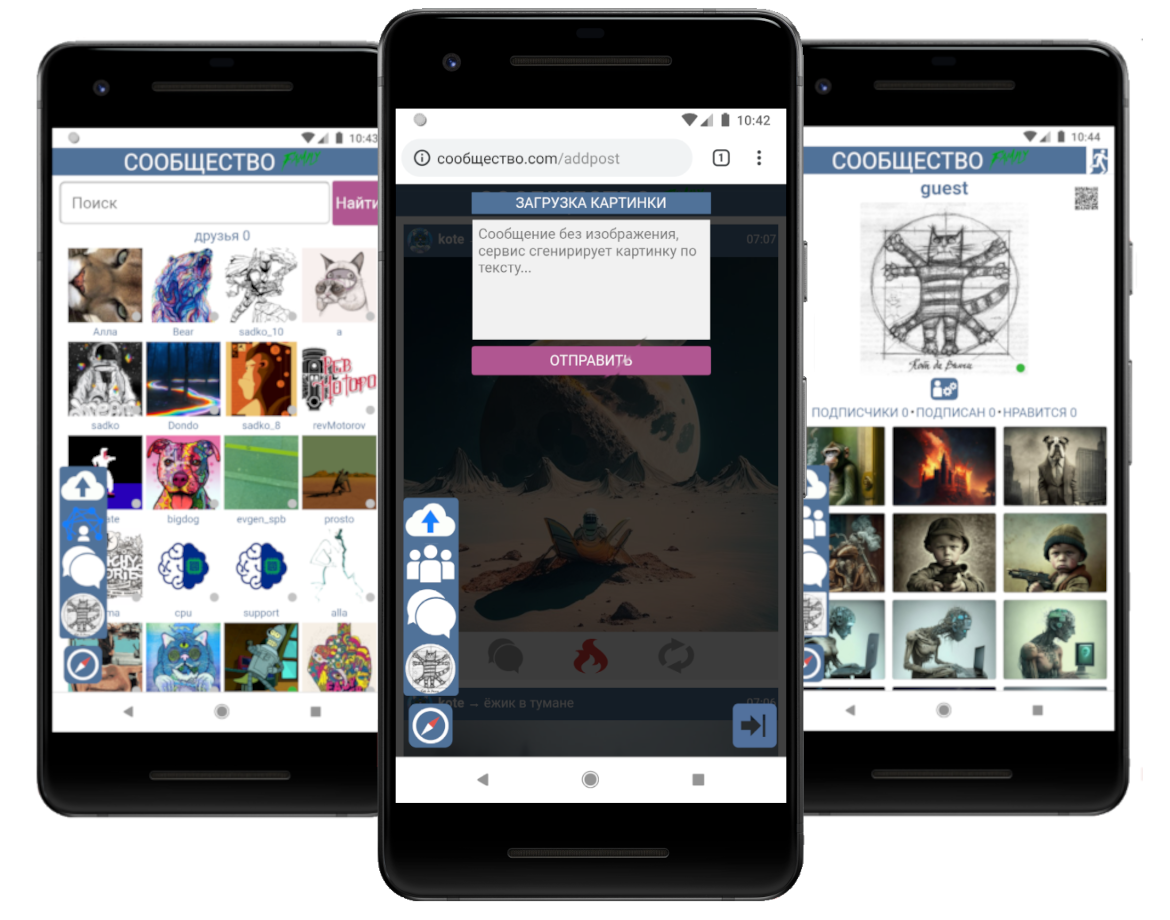
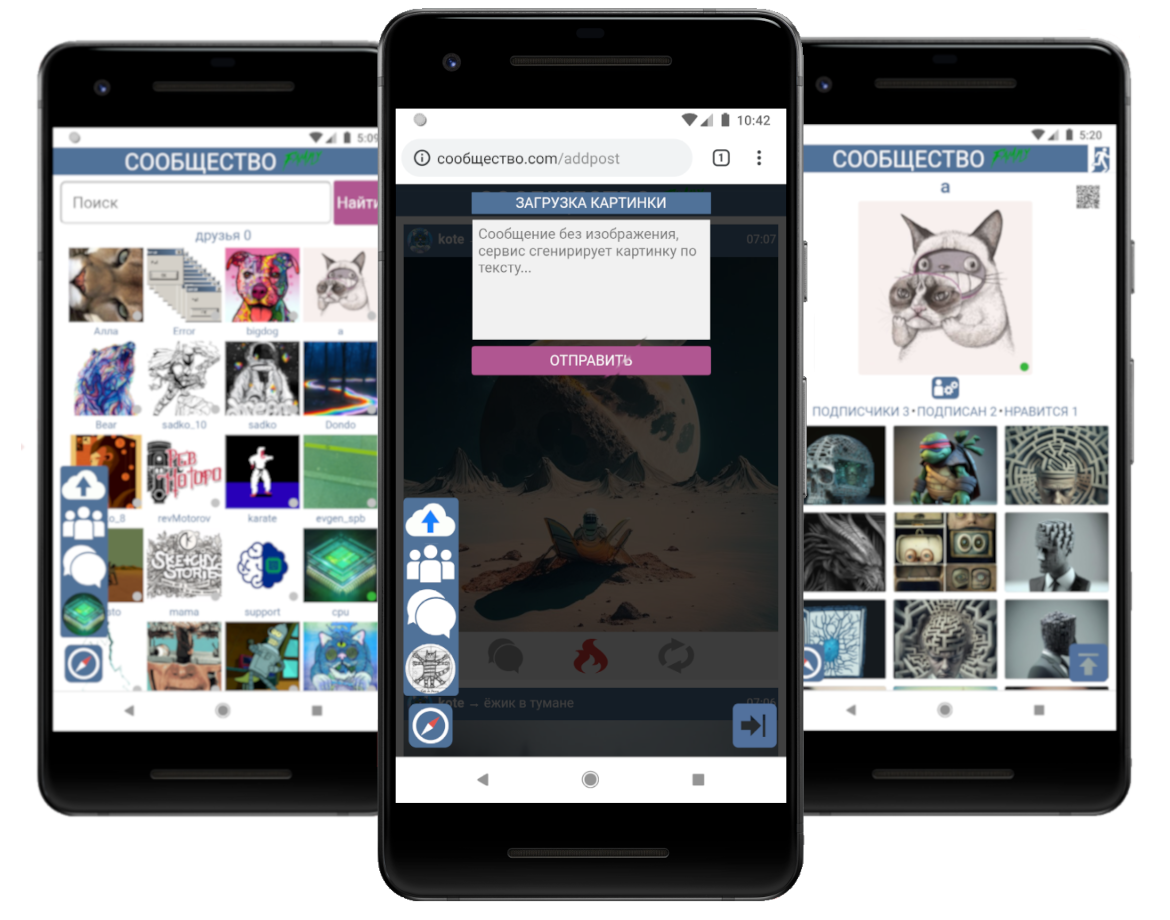
ошибка отображения аватара

diff --git a/templates/index.html b/templates/index.html
@@ -1,10 +1,10 @@
 {% extends 'base.html' %}
 {% block content %}
 <div class="info"> 
-    <p id="post-text">Социальная сеть с открытым исходным кодом в <a href="https://github.com/naturalkind/social-network/" target="blank">github</a>. Цель проекта - создать открытую платформу, объединив простых пользователей и разработчиков. Статья о проекте в <a href="https://habr.com/ru/articles/728178/" target="blank">хабрахабр</a>. Генерация изображения по описанию.
+    <p id="post-text">Социальная сеть с открытым исходным кодом в <a href="https://github.com/naturalkind/social-network/" target="blank">github</a>. Цель проекта - создать открытую платформу, объединив простых пользователей и разработчиков. Статья о проекте в <a href="https://habr.com/ru/articles/728178/" target="blank">хабрахабр</a>. Генерация изображения по описанию. Простая навигация. 
     </p>
     <img src="/static/images/demo_img.png" style="max-height: 662px; max-width: 1200px;display: block;position: relative;margin: 0px auto;" onclick="showImg(this)">
-    <p id="post-text">Для <a onclick="addREG('javascript')">регистрации</a> нужно придумать логин пароль и загрузить изображение для аватара. Простая навигация, возможность генерировать изображение по описанию.</p>
+    <p id="post-text">Для <a onclick="addREG('javascript')">регистрации</a> нужно придумать логин пароль и загрузить изображение для аватара.</p>
     <img src="/static/images/demo_10.png" style="height: 7%; max-width: 600px;display: block;position: relative;margin: 0px auto;border-radius: 15px;">
 </div>
 {% endblock %}

diff --git a/static/js/js.js b/static/js/js.js
@@ -2016,7 +2016,7 @@ function activate_wall(user_name) {
                     var ttext = "<span class='arrow'> → </span><span class='message-title'>" + message_data.text+ "</span>";
                 }
                 if (message_data.image_user != "oneProf.png"){
-                    var div_image_user = `<img src="/media/data_image/${message_data.path_data}/${message_data.image_user}" width="30" height="30">`
+                    var div_image_user = `<img src="/media/data_image/${message_data.path_data}/tm_${message_data.image_user}" width="30" height="30">`
                 } else {
                     var div_image_user = `<img src="/static/images/oneProf.png" width="30" height="30">`
                 }
